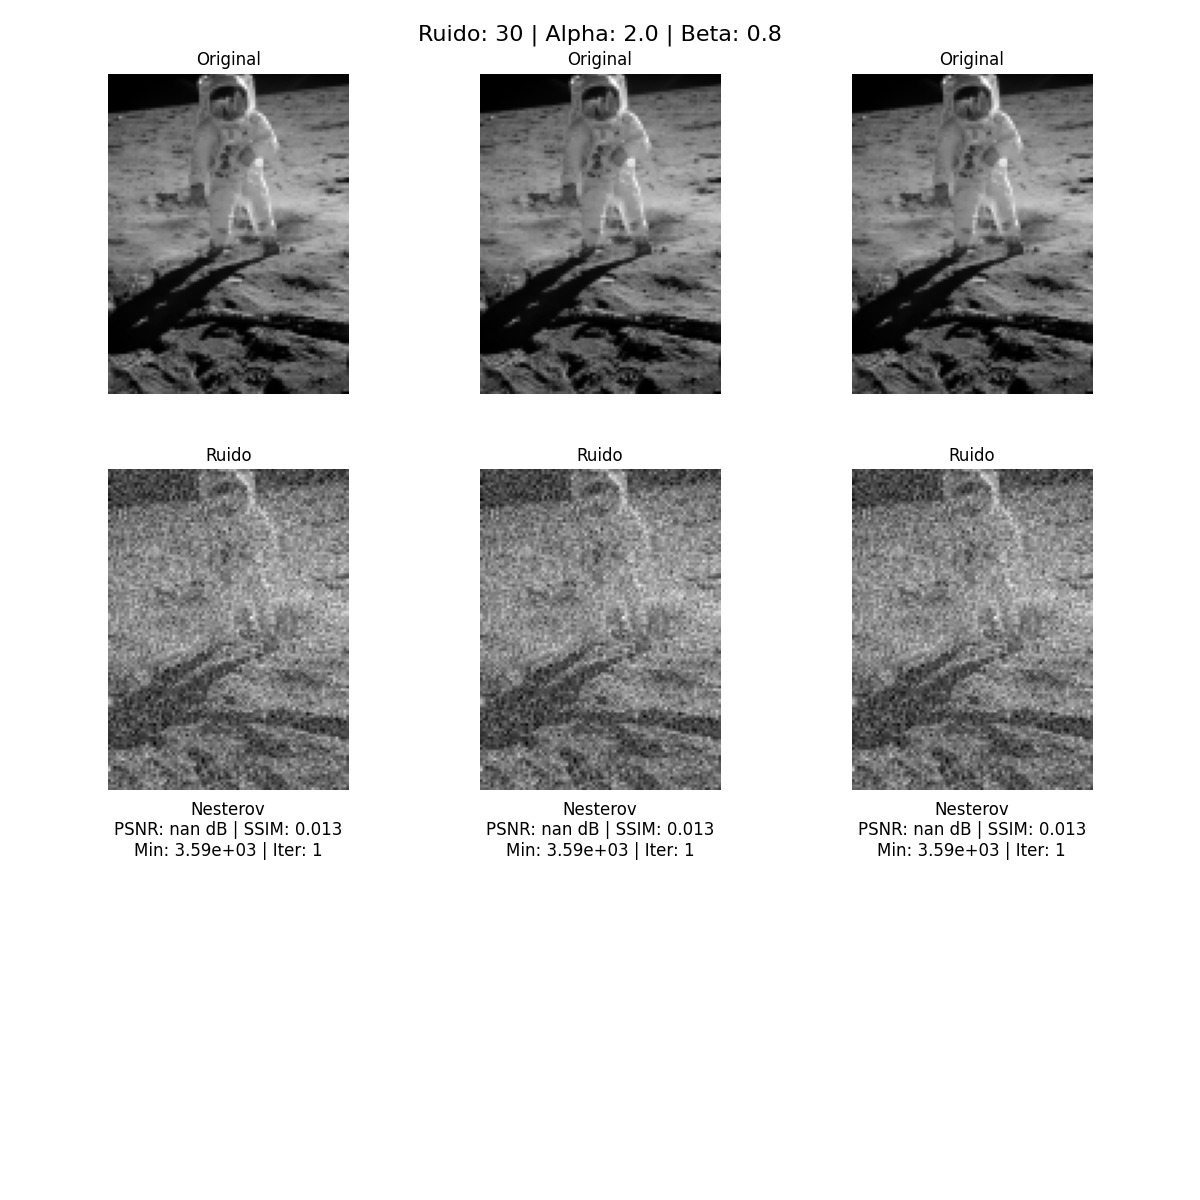
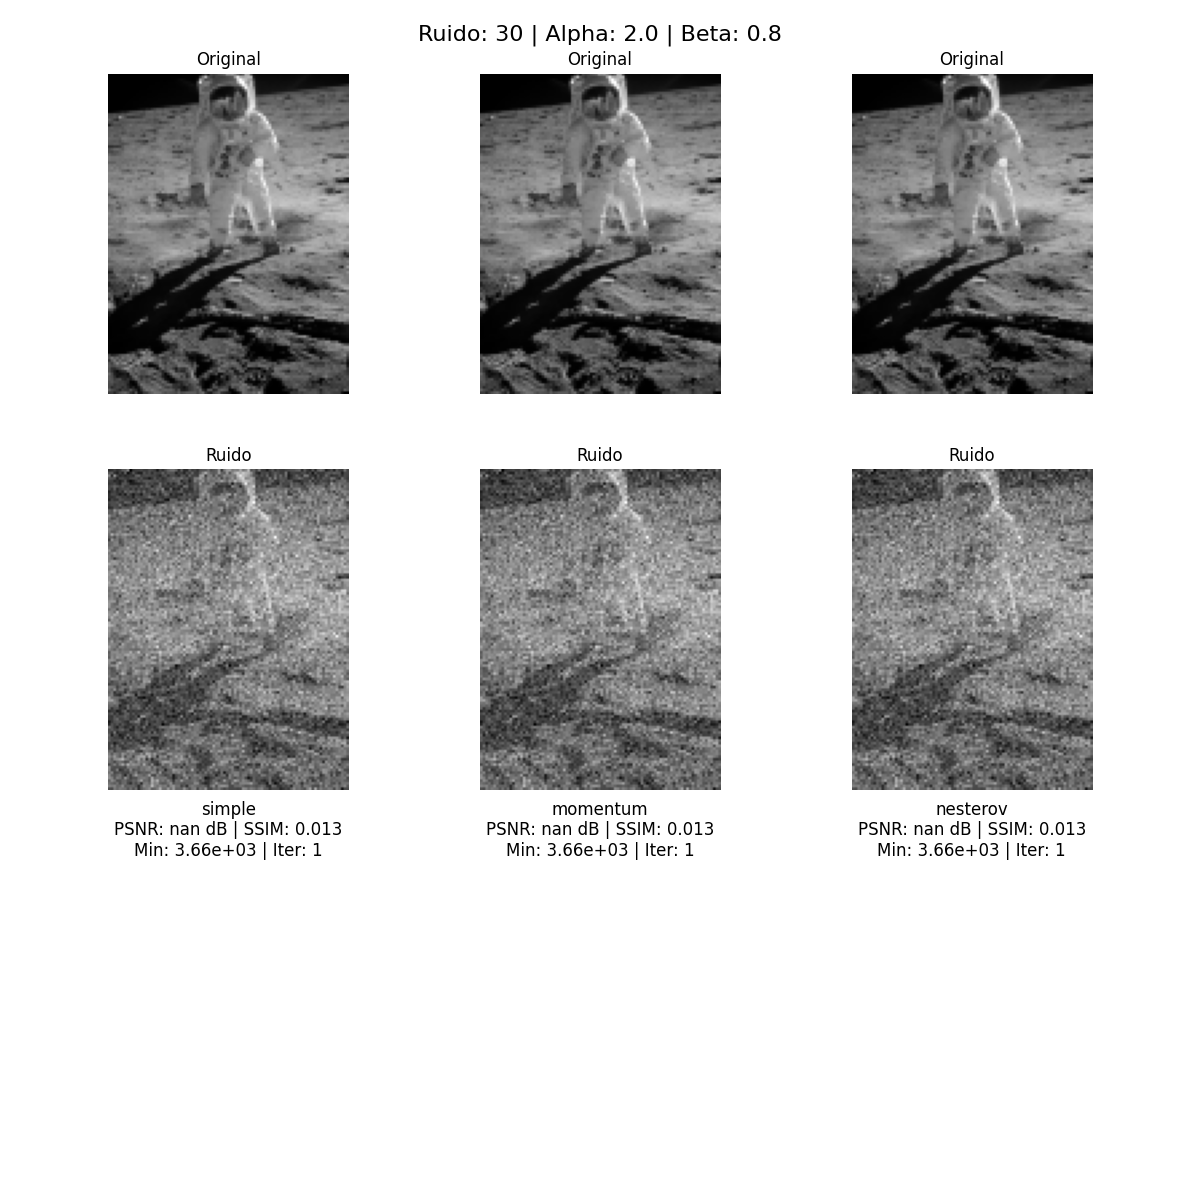
imagenes reporte

Changed region(s): [[0.0925, 0.37, 0.3083, 0.6783], [0.7092, 0.37, 0.925, 0.6783], [0.4008, 0.37, 0.6167, 0.6783]]

diff --git a/optimization/proyectos/proyecto_final.py b/optimization/proyectos/proyecto_final.py
@@ -102,8 +102,8 @@ class EnergiaL2:
 # ================================================ PROYECTO FINAL ===========================================================
 
 
-def mensaje(psnr, ssim, min, iter,):
-    return (f"Nesterov\nPSNR: {psnr:.1f} dB | SSIM: {ssim:.3f}"
+def mensaje(metodo,psnr, ssim, min, iter,):
+    return (f"{metodo}\nPSNR: {psnr:.1f} dB | SSIM: {ssim:.3f}"
             f"\nMin: {min:.2e} | Iter: {iter}")
     
 # ==================== Ejemplo de uso (actualizado) ====================
@@ -143,7 +143,7 @@ for ruido in [0, 10, 20, 30, 40, 50]:
             x_0     = energia.f_vec.copy(),
             v_0     = np.zeros_like(energia.f_vec),
             alpha   = alpha,                                   
-            iteraciones = 1500,
+            iteraciones = 2000,
             epsilon = 1e-6,
             eta     = 0.8
         )
@@ -214,20 +214,20 @@ for ruido in [0, 10, 20, 30, 40, 50]:
         # Sección de imágenes restauradas
         # Simple
         axs[2, 0].imshow(img_simple, cmap='gray')
-        axs[2, 0].set_title(mensaje(
+        axs[2, 0].set_title(mensaje('simple',
             psnr_simple, ssim_simple, min_simple, iter_simple
         ))
         # Momentum
         axs[2, 0].axis('off')
         axs[2, 1].imshow(img_momentum, cmap='gray')
-        axs[2, 1].set_title(mensaje(
+        axs[2, 1].set_title(mensaje('momentum',
             psnr_momentum, ssim_momentum, min_momentum, iter_momentum
         ))
         
         # Nesterov
         axs[2, 1].axis('off')
         axs[2, 2].imshow(img_nesterov, cmap='gray')
-        axs[2, 2].set_title(mensaje(
+        axs[2, 2].set_title(mensaje('nesterov',
             psnr_nesterov, ssim_nesterov, min_nesterov, iter_nesterov
         ))
         axs[2, 2].axis('off')
